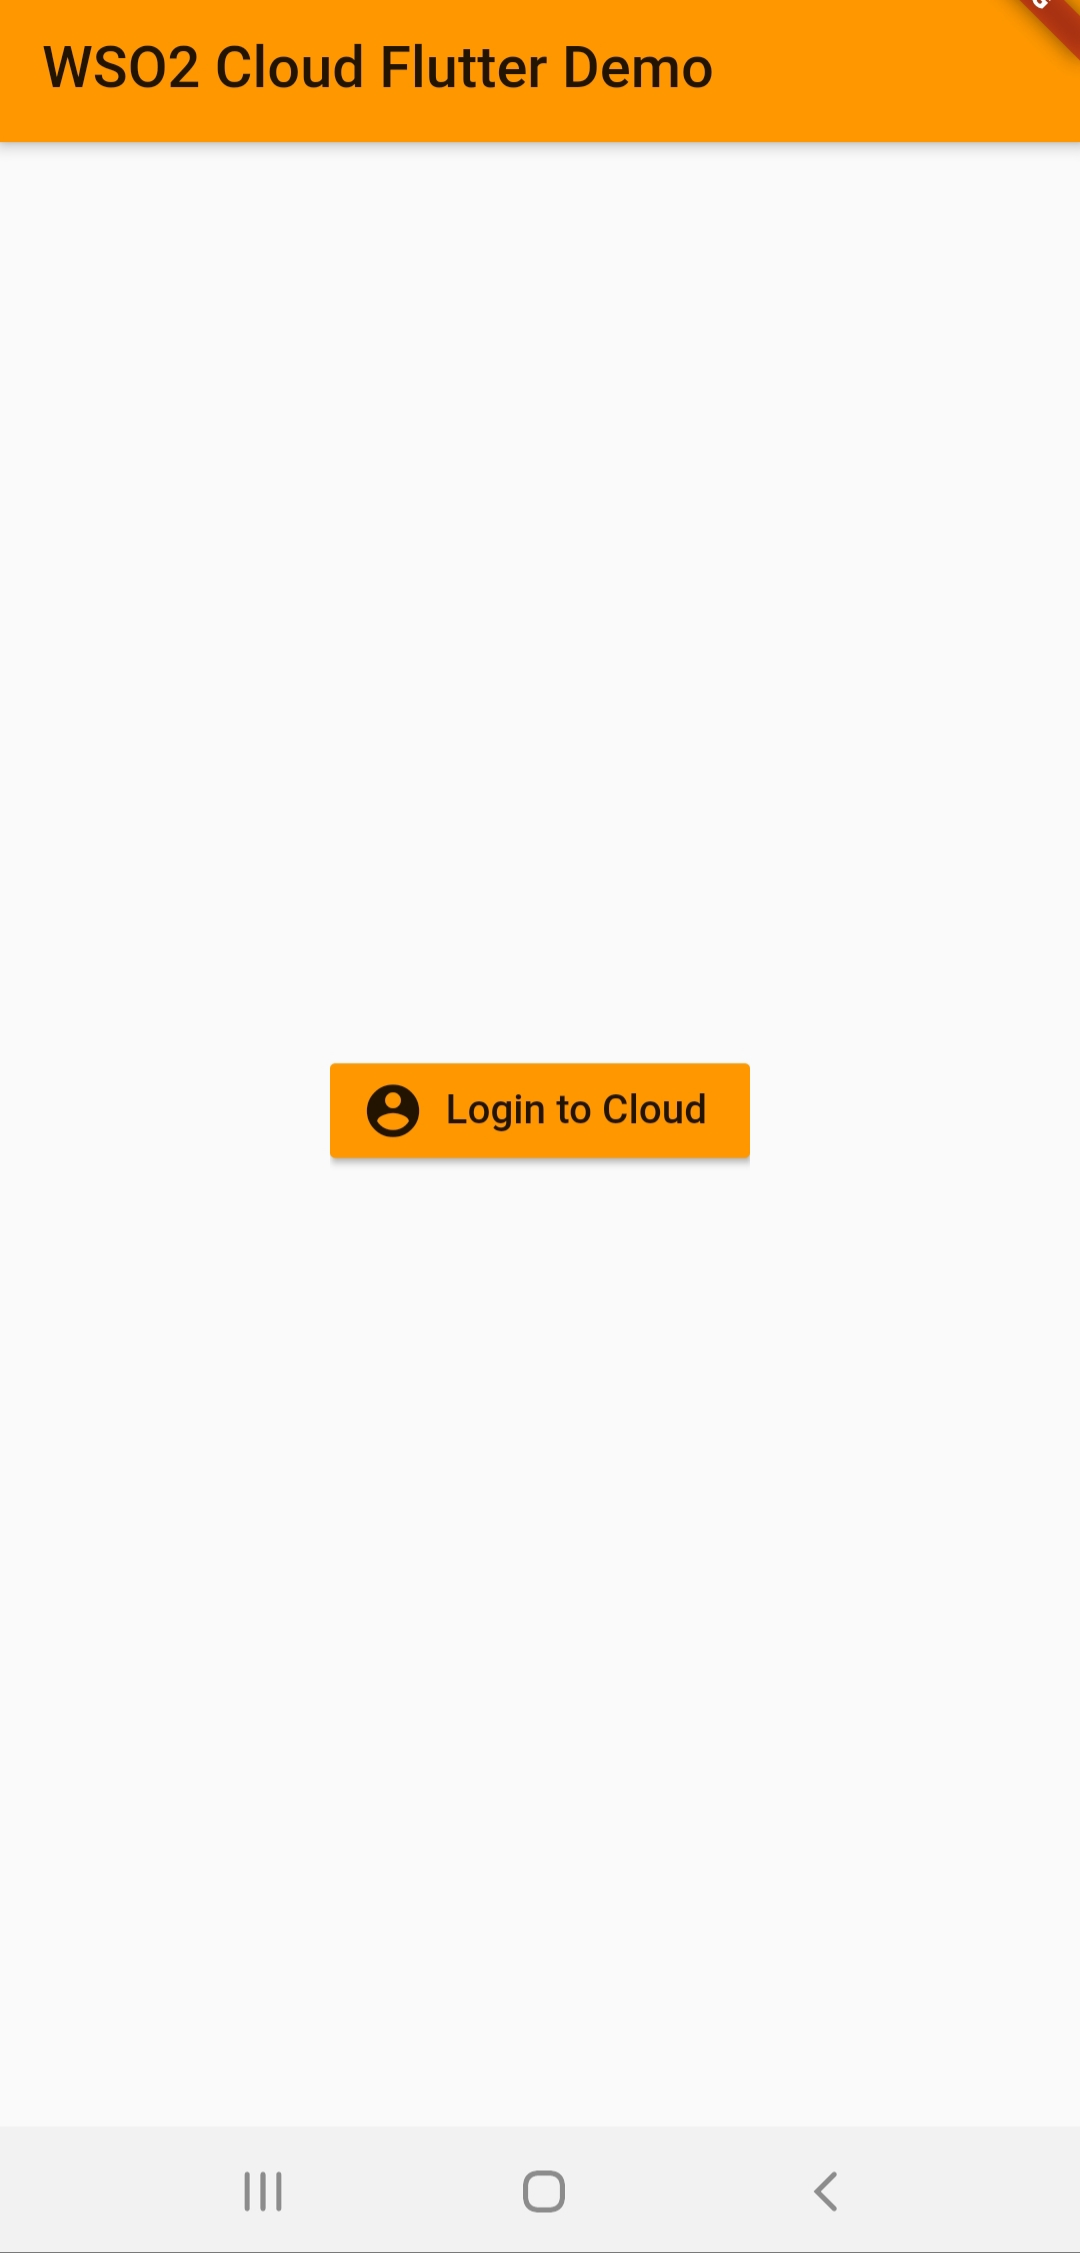
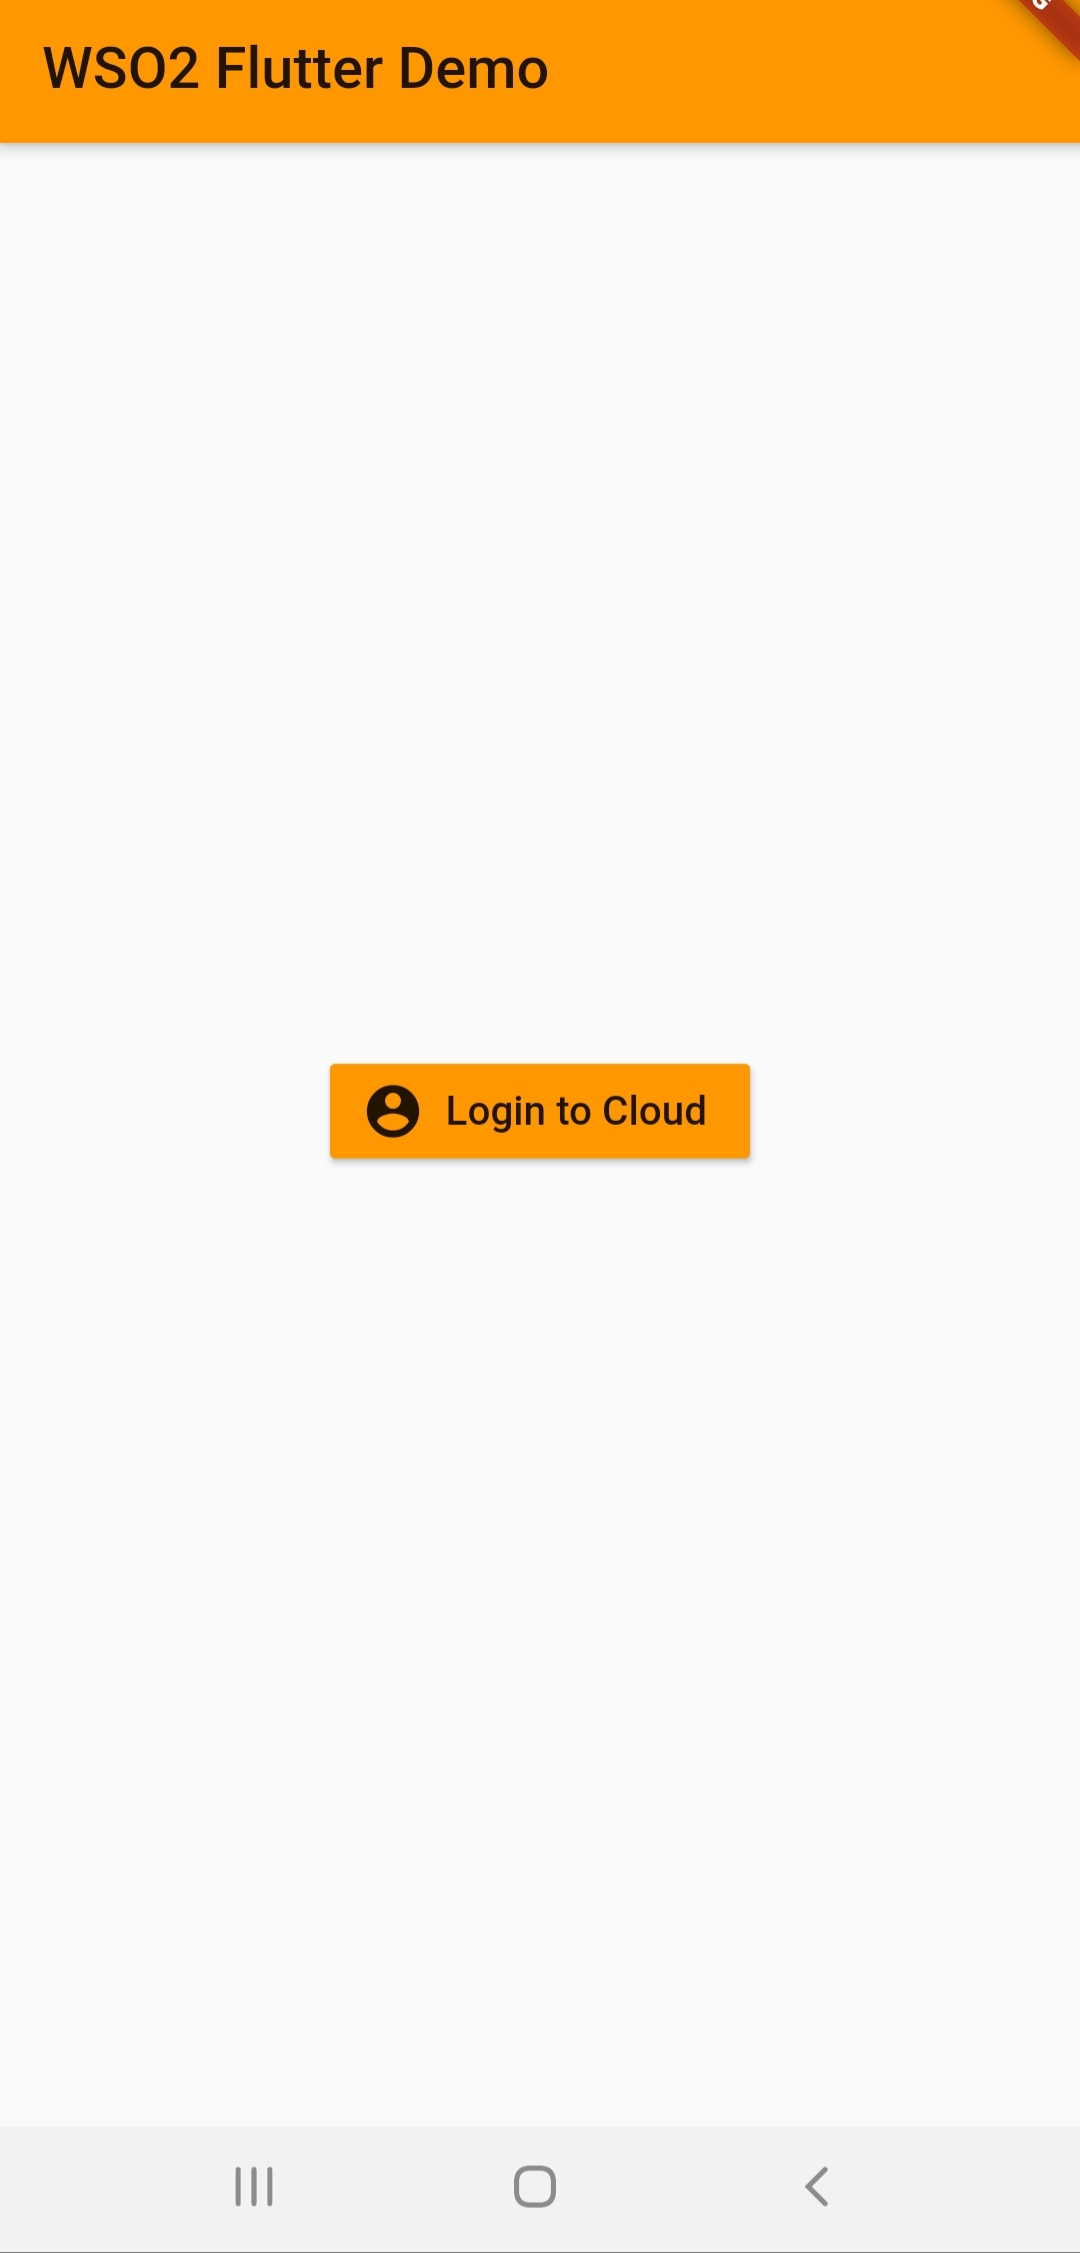
Add comments, images and refactor code

diff --git a/lib/home.dart b/lib/home.dart
@@ -25,7 +25,7 @@ import 'utils/auth.dart';
 import 'utils/constants.dart';
 
 /// Home widget -> This widget contains and handles the country search by
-/// capital
+/// capital.
 class Home extends StatefulWidget {
   const Home({Key key}) : super(key: key);
 
@@ -46,6 +46,7 @@ class _HomeState extends State<Home> {
   @override
   Widget build(BuildContext context) {
     Widget contentElement;
+    // If isBusy true, show progress indicator
     if (isBusy) {
       contentElement = const CircularProgressIndicator();
     } else if (countries != null && countries.isNotEmpty) {
@@ -71,53 +72,53 @@ class _HomeState extends State<Home> {
     return Scaffold(
       appBar: AppBar(
         title: const Text('WSO2 Flutter Demo'),
+        //
         actions: <Widget>[SettingsButton(), LogoutButton(logoutAction)],
       ),
       body: Container(
         padding: const EdgeInsets.symmetric(horizontal: 20),
         alignment: Alignment.center,
-        child: isBusy
-            ? const CircularProgressIndicator()
-            : Form(
-                key: _formKey,
-                child: Column(
-                  crossAxisAlignment: CrossAxisAlignment.center,
-                  children: <Widget>[
-                    Padding(
-                        padding: const EdgeInsets.symmetric(
-                            vertical: 10, horizontal: 10),
-                        child: Row(children: <Widget>[
-                          Expanded(
-                              flex: 1,
-                              child: TextFormField(
-                                decoration: const InputDecoration(
-                                  contentPadding:
-                                      EdgeInsets.symmetric(vertical: 5),
-                                  hintText: 'Enter capital city',
-                                ),
-                                validator: (value) {
-                                  if (value.isEmpty) {
-                                    return 'Please enter a capital city';
-                                  }
-                                  return null;
-                                },
-                                controller: textController,
-                              )),
-                          IconButton(
-                            icon: Icon(Icons.search),
-                            onPressed: () {
-                              // When user clicks the search button, invokeApiAction() is
-                              // called to get country search results for a given capital.
-                              if (_formKey.currentState.validate()) {
-                                invokeApiAction(textController.text);
-                              }
-                            },
-                          )
-                        ])),
-                    contentElement,
-                  ],
-                ),
-              ),
+        child: Form(
+          key: _formKey,
+          child: Column(
+            crossAxisAlignment: CrossAxisAlignment.center,
+            children: <Widget>[
+              Padding(
+                  padding:
+                      const EdgeInsets.symmetric(vertical: 10, horizontal: 10),
+                  child: Row(children: <Widget>[
+                    Expanded(
+                        flex: 1,
+                        child: TextFormField(
+                          enabled: !isBusy,
+                          decoration: const InputDecoration(
+                            contentPadding: EdgeInsets.symmetric(vertical: 5),
+                            hintText: 'Enter capital city',
+                          ),
+                          validator: (value) {
+                            if (value.isEmpty) {
+                              return 'Please enter a capital city';
+                            }
+                            return null;
+                          },
+                          controller: textController,
+                        )),
+                    IconButton(
+                      icon: Icon(Icons.search),
+                      onPressed: () {
+                        // When user clicks the search button, invokeApiAction()
+                        // is being called to get country search results for a
+                        // given capital.
+                        if (!isBusy && _formKey.currentState.validate()) {
+                          invokeApiAction(textController.text);
+                        }
+                      },
+                    )
+                  ])),
+              contentElement,
+            ],
+          ),
+        ),
       ),
     );
   }
@@ -149,7 +150,7 @@ class _HomeState extends State<Home> {
           issuer: AUTH_ISSUER,
           domain: AUTH_DOMAIN);
 
-      // Call API context URL with new access token
+      // Call fetchCountries() with new access token
       response = await fetchCountries(tenantDomain, capital, accessToken);
     }
 
@@ -164,6 +165,7 @@ class _HomeState extends State<Home> {
       final List<Country> countryList =
           parsed.map<Country>((jsonObj) => Country.fromJson(jsonObj)).toList();
 
+      // Assign list of country objects to 'countries' state variable.
       setState(() {
         isBusy = false;
         countries = countryList;

diff --git a/lib/utils/auth.dart b/lib/utils/auth.dart
@@ -38,7 +38,7 @@ Future<String> login(
     // Call appAuth's authorize method to popup web browser with Keymanager (KM)
     // '/authorize'. KM will redirect the web browser to login page
     // Once logged in, KM redirects back to redirect URL with auth code.
-    // AppAuth internally generates code verifier and code challenge
+    // AppAuth internally generates code verifier and code challenge.
     final AuthorizationResponse authorizationResponse =
         await flutterAppAuth.authorize(
       AuthorizationRequest(clientId, redirectUri,
@@ -46,7 +46,6 @@ Future<String> login(
           scopes: <String>['openid', 'profile', 'offline_access'],
           serviceConfiguration: serviceConfiguration),
     );
-
     debugPrint('Authorization request successful. Obtaining access token...');
 
     // Invoke '/token' endpoint with obtained authorizationCode and codeVerifier
@@ -59,11 +58,9 @@ Future<String> login(
     debugPrint('Token request successful:${tokenResponse.accessToken}');
 
     // Add tokens to secure storage.
-    await secureStorage.write(
-        key: 'refresh_token', value: tokenResponse.refreshToken);
-    await secureStorage.write(
-        key: 'access_token', value: tokenResponse.accessToken);
-    await secureStorage.write(key: 'id_token', value: tokenResponse.idToken);
+    setRefreshToken(tokenResponse.refreshToken);
+    setAccessToken(tokenResponse.accessToken);
+    setIdToken(tokenResponse.idToken);
 
     return tokenResponse.accessToken;
   } on Exception catch (e, s) {
@@ -91,20 +88,40 @@ Future<String> refreshAccessToken(
       serviceConfiguration: serviceConfiguration));
 
   // Add new tokens to secure storage.
-  await secureStorage.write(key: 'refresh_token', value: response.refreshToken);
-  await secureStorage.write(key: 'access_token', value: response.accessToken);
+  setRefreshToken(response.refreshToken);
+  setAccessToken(response.accessToken);
 
   return response.accessToken;
 }
 
-/// Function to get access token
+/// Function to set access token to secure storage
+Future<String> setAccessToken(String accessToken) async {
+  await secureStorage.write(key: 'access_token', value: accessToken);
+}
+
+/// Function to get access token from secure storage
 Future<String> getAccessToken() async {
   return secureStorage.read(key: 'access_token');
 }
 
-/// Function to get refresh token
+/// Function to set refresh token to secure storage
+Future<String> setRefreshToken(String refreshToken) async {
+  await secureStorage.write(key: 'refresh_token', value: refreshToken);
+}
+
+/// Function to get refresh token from secure storage
 Future<String> getRefreshToken() async {
   return secureStorage.read(key: 'refresh_token');
+}
+
+/// Function to set ID token to secure storage
+Future<String> setIdToken(String idToken) async {
+  await secureStorage.write(key: 'id_token', value: idToken);
+}
+
+/// Function to get ID token from secure storage
+Future<String> getIdToken() async {
+  return secureStorage.read(key: 'id_token');
 }
 
 /// Function to clear refresh token

diff --git a/lib/login.dart b/lib/login.dart
@@ -19,7 +19,7 @@ import 'package:flutterdemo/utils/auth.dart';
 import 'package:flutterdemo/utils/constants.dart';
 import 'package:flutterdemo/utils/settings.dart';
 
-/// Login Widget -> Shows the login button and handles its click event.
+/// Login Widget -> This widget shows the login button and handles click event.
 class Login extends StatefulWidget {
   const Login({Key key}) : super(key: key);
 
@@ -27,6 +27,7 @@ class Login extends StatefulWidget {
   _LoginState createState() => _LoginState();
 }
 
+/// Class to represent login page's state
 class _LoginState extends State<Login> {
   bool isBusy = false;
   String errorMessage;
@@ -38,8 +39,8 @@ class _LoginState extends State<Login> {
     initAction();
   }
 
-  /// User loggedIn false by default. If user has a refresh token, get a new
-  /// access token when initializing app and set loggedIn to true.
+  /// If user has a refresh token, get a new access token when initializing app
+  /// and navigate to Home widget. Return otherwise.
   Future<void> initAction() async {
     if (await getRefreshToken() == null) {
       return;
@@ -66,6 +67,7 @@ class _LoginState extends State<Login> {
     });
   }
 
+  /// Return app layout with the login button in the middle.
   @override
   Widget build(BuildContext context) {
     return Scaffold(
@@ -100,8 +102,8 @@ class _LoginState extends State<Login> {
       errorMessage = '';
     });
 
-    // Call to get access token. If successful set isLoggedIn to true,
-    // false otherwise.
+    // Call to get access token. If successful, navigate to Home widget.
+    // Set the error message otherwise.
     final String accessToken =
         await login(AUTH_DOMAIN, await getClientID(), AUTH_REDIRECT_URI);
 

diff --git a/lib/main.dart b/lib/main.dart
@@ -22,6 +22,7 @@ import 'login.dart';
 /// Main function to run app
 void main() => runApp(const MainWidget());
 
+/// Main widget -> Define the material app and routes.
 class MainWidget extends StatelessWidget {
   const MainWidget({Key key}) : super(key: key);
 
@@ -29,13 +30,13 @@ class MainWidget extends StatelessWidget {
   Widget build(BuildContext context) {
     // Return MaterialApp with routes
     return MaterialApp(
-      title: "WSO2 Cloud Flutter Demo",
+      title: "WSO2 Flutter Demo",
       theme: ThemeData(
         primarySwatch: Colors.orange,
         visualDensity: VisualDensity.adaptivePlatformDensity,
       ),
-      // Start the app with the "/" named route. In this case, the app starts
-      // on the FirstScreen widget.
+      // Start the app with the "/login" named initial route.
+      // In this case, the app starts on the Login widget.
       initialRoute: '/login',
       routes: {'/home': (context) => Home(), '/login': (context) => Login()},
     );

diff --git a/lib/services/services.dart b/lib/services/services.dart
@@ -22,6 +22,7 @@ import 'package:http/http.dart' as http;
 /// Function to send GET request to API context path and fetch country response
 Future<http.Response> fetchCountries(
     String tenantDomain, String capital, String accessToken) async {
+
   // Full API context path (apart from URL param attached)
   String API_CONTEXT_PATH =
       'https://$AUTH_DOMAIN/t/$tenantDomain/demo/v1.0/capital/';
